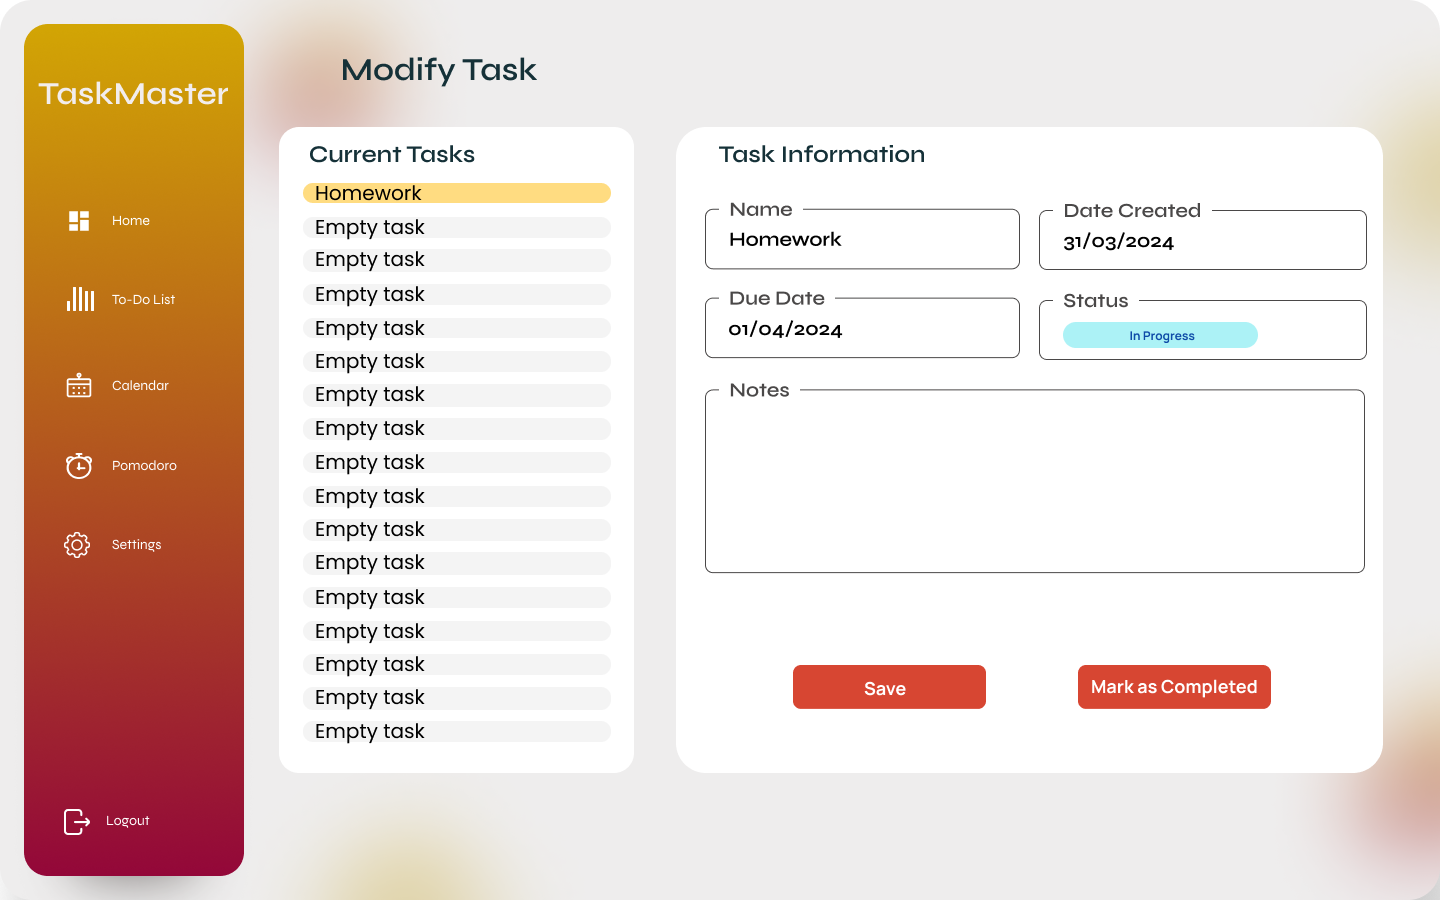
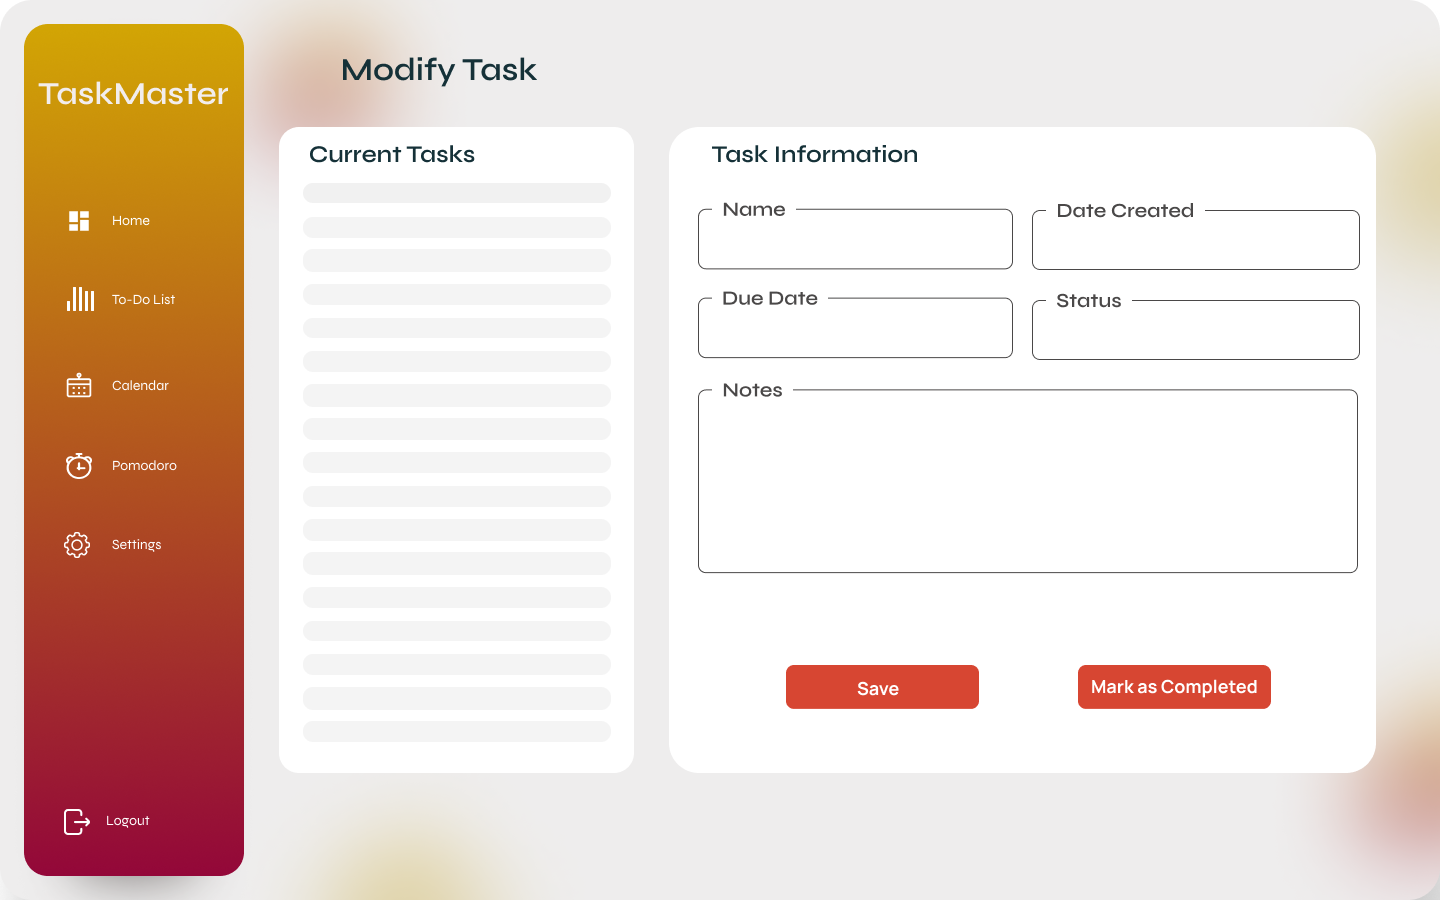
Commit #7: Added Add_Task Page Functionality (70%) | {THAT SCROLLWIDGET WAS A PAIN IN THE A- O_O

diff --git a/mainwindow.cpp b/mainwindow.cpp
@@ -6,6 +6,7 @@
 #include <QLineEdit>
 #include <QObject>
 #include <QPlainTextEdit>
+#include <QVBoxLayout>
 //-- Date Functionality --//
 #include <QDate>
 
@@ -133,13 +134,32 @@ void MainWindow::on_Delete_Task_clicked() {
   }
 }
 
+
 void MainWindow::on_Modify_Task_clicked() {
-  if (ui->stackedWidget->currentWidget() != ui->Modify_Task_Page) {
-    ui->BackGround->setStyleSheet(
-        "background-image: url(:/Background_Images/Modify Task_" +
-        backgroundState + ".png);");
-    ui->stackedWidget->setCurrentWidget(ui->Modify_Task_Page);
-  }
+    if (ui->stackedWidget->currentWidget() != ui->Modify_Task_Page) {
+        ui->BackGround->setStyleSheet(
+            "background-image: url(:/Background_Images/Modify Task_" +
+            backgroundState + ".png);");
+        ui->stackedWidget->setCurrentWidget(ui->Modify_Task_Page);
+    }
+    int count = 0;
+    Task_Manager->CountTotalTasks(count);
+    QVBoxLayout *layout = new QVBoxLayout();
+    QWidget *widget = new QWidget();
+    widget->setLayout(layout);
+    ui->scrollArea->setWidget(widget);
+    int buttonW = 308, buttonH = 20, offset = 30;
+
+    widget->setMinimumSize(buttonW, count*(buttonH+20));
+    QPushButton* prev_button = nullptr;
+    for(int i = 0; i < count; i++){
+        QPushButton *button = new QPushButton(Task_Manager->getName(i+1));
+        layout->addWidget(button);
+        connect(button, &QPushButton::clicked, this, [this, i, button, prev_button]() {handleButtonClicked(i, button, prev_button);} );
+        prev_button = button;
+        button->setStyleSheet("color: #000000; border-radius: 6px; background-color: #F1F1F1;min-width: 308px; min-height:20px; margin-bottom:20px;");
+
+    }
 }
 
 // Add Task
@@ -184,25 +204,33 @@ void MainWindow::on_Create_Btn_clicked() {
   }
 
   if (DATE.length() != 10) {
-    ui->ERR_MSG->setText("Correct Format not Followed. Please try again.");
-    ui->ERR_MSG->setStyleSheet("color: red;");
-  } else if (day > 30 || month < 1 || month > 12 || year < currentDate.year() ||
-             year > currentDate.year() + 2) {
-    ui->ERR_MSG->setText("Incorrect Date entered. Please try again.");
-    ui->ERR_MSG->setStyleSheet("color: red;");
+      ui->ERR_MSG->setText("Correct Format not Followed. Please try again.");
+      ui->ERR_MSG->setStyleSheet("color: red;");
+  }
+  else if (day > 30 || month < 1 || month > 12 || year < currentDate.year() || year > currentDate.year() + 2)
+  {
+      ui->ERR_MSG->setText("Incorrect Date entered. Please try again.");
+      ui->ERR_MSG->setStyleSheet("color: red;");
   } else {
       if (Task_Manager->taskExists(NAME, c_date, d_date)) {
-      ui->ERR_MSG->setText(
+          ui->ERR_MSG->setText(
           "Another task with the same name and dates already exists.");
-      ui->ERR_MSG->setStyleSheet("color: red;");
+          ui->ERR_MSG->setStyleSheet("color: red;");
     } else {
           if (Task_Manager->addTask(NAME, c_date, d_date, NOTES)) {
-        ui->ERR_MSG->setText("Operation Completed successfully.");
-        ui->ERR_MSG->setStyleSheet("color:green;");
+            ui->ERR_MSG->setText("Operation Completed successfully.");
+              ui->ERR_MSG->setStyleSheet("color:green;");
       } else {
-        ui->ERR_MSG->setText("Operation Failed.");
-        ui->ERR_MSG->setStyleSheet("color:red;");
-      }
+              ui->ERR_MSG->setText("Operation Failed.");
+          ui->ERR_MSG->setStyleSheet("color:red;");
+          }
     }
   }
+}
+
+void MainWindow::handleButtonClicked(int current_button_id, QPushButton* button, QPushButton* prev_button){
+    if(prev_button != nullptr){
+        prev_button->setStyleSheet("color: #000000; border-radius: 6px; background-color: #F1F1F1;min-width: 308px; min-height:20px; margin-bottom:20px;");
+    }
+    button->setStyleSheet("color: #000000; border-radius: 6px; background-color: #FFDC81 ;min-width: 308px; min-height:20px; margin-bottom:20px;");
 }

diff --git a/dbmanager.cpp b/dbmanager.cpp
@@ -28,8 +28,8 @@ bool DbManager::createTasksTable() {
   bool success = true;
     if (!(m_db.tables().contains("tasks"))) {
       QSqlQuery query;
-      query.prepare("CREATE TABLE tasks(name VARCHAR(128), start_date DATE, "
-                    "end_date DATE, notes VARCHAR(1024));");
+      query.prepare("CREATE TABLE tasks(id INTEGER PRIMARY KEY AUTOINCREMENT, name VARCHAR(128), start_date INT, "
+                    "end_date INT, notes VARCHAR(1024), status VARCHAR(50));");
 
       if (!query.exec()) {
         qDebug() << "Couldn't create the table 'tasks'";
@@ -42,15 +42,16 @@ bool DbManager::createTasksTable() {
 }
 
 bool DbManager::addTask(const QString &name, const int c_date, const int d_date,
-                        const QString &notes) {
+                        const QString &notes, const QString& status) {
   bool success = false;
   QSqlQuery queryAdd;
-  queryAdd.prepare("INSERT INTO tasks(name, start_date, end_date, notes) "
-                   "VALUES (:name, :start_date, :end_date, :notes)");
+  queryAdd.prepare("INSERT INTO tasks(name, start_date, end_date, notes, status) "
+                   "VALUES (:name, :start_date, :end_date, :notes, :status)");
   queryAdd.bindValue(":name", name);
   queryAdd.bindValue(":end_date", d_date);
   queryAdd.bindValue(":start_date", c_date);
   queryAdd.bindValue(":notes", notes);
+  queryAdd.bindValue(":status", status);
   if (queryAdd.exec()) {
     success = true;
   } else {
@@ -122,3 +123,29 @@ bool DbManager::removeAllPersons() {
 
   return success;
 }
+
+void DbManager::CountTotalTasks(int& count){
+    QSqlQuery query("SELECT id FROM tasks", m_db);
+    while (query.next()) {
+        count++;
+    }
+}
+
+QString DbManager::getName(const int id){
+    QSqlQuery query;
+    query.prepare("SELECT name FROM tasks WHERE id = :id");
+    query.bindValue(":id", id);
+    if(!query.exec()){
+        qDebug() << "Failed to execute query:" << query.lastError().text();
+        return QString(); // Return an empty QString if query execution fails
+    }
+
+    if(query.next()) {
+        QString name = query.value(0).toString();
+        return name;
+    } else {
+        qDebug() << "No task found with the provided id.";
+        return QString(); // Return an empty QString if no task is found
+    }
+}
+

diff --git a/dbmanager.h b/dbmanager.h
@@ -10,12 +10,13 @@ public:
   bool isOpen() const;
   bool createTasksTable();
   bool createUsersTable();
-  bool addTask(const QString &name, const int c_date, const int d_date, const QString &notes);
+  bool addTask(const QString &name, const int c_date, const int d_date, const QString &notes, const QString& status = "In progress");
   bool removePerson(const QString &name);
+  void CountTotalTasks(int& count);
   bool taskExists(const QString &name, const int c_date, const int d_date) const;
   void printAllPersons() const;
   bool removeAllPersons();
-
+  QString getName(const int id);
 private:
   QSqlDatabase m_db;
 };

diff --git a/mainwindow.h b/mainwindow.h
@@ -2,6 +2,7 @@
 #define MAINWINDOW_H
 
 #include <QMainWindow>
+#include <QPushButton>
 #include "dbmanager.h"
 
 QT_BEGIN_NAMESPACE
@@ -45,7 +46,7 @@ private slots:
     void on_Modify_Task_clicked();
 
     void on_Create_Btn_clicked();
-
+    void handleButtonClicked(int i, QPushButton* button, QPushButton* prev_button);
 private:
     Ui::MainWindow *ui;
     DbManager* Task_Manager;
